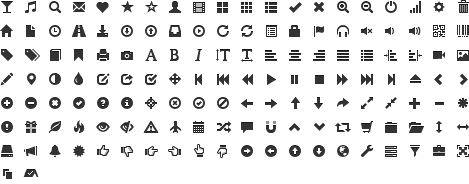
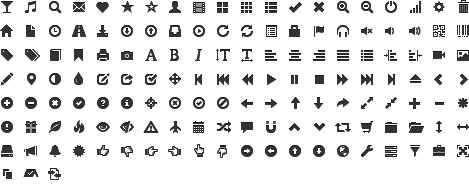
Bug 9757: Make staff client list contents view more like search results
This patch revises the staff client list contents view to better match
staff client search results, showing more information and offering more
ways to interact with the contents than before.

- List contents output has been modified so that the staff client can
  use XSLT-formatted data just as the OPAC can. As in the OPAC it
  depends on XSLTResultsDisplay being enabled.
- A "toolbar" has been added which is similar to that in search results,
  offering the option to add items to a Cart, add them to a different
  list, place multiple holds, remove items from the list, or merge
  records.
- This toolbar has been made to float on scroll like the one on the
  MARC edit page.
- Library and shelving location have been added to the display of call
  numbers. Call numbers are linked to a search as they are in search
  results.
- Edit links are included just as they are in search results.
- Automatic focus on the add by barcode form has been removed so that
  the page doesn't jump to the bottom unnecessarily.
- basket.js's "addMultiple" function has been modified so that it
  receives an array of checkboxes rather than looking for checkboxes in
  a specific form. This helps abstract its functionality for use on both
  search results and lists. results.tt is modified accordingly.
- The page layout has been widened to make room for the increased amount
  of information on the page.
- A new "merge" icon has been added to the default Bootstrap sprite.

To test:
[…]

diff --git a/koha-tmpl/intranet-tmpl/prog/en/js/basket.js b/koha-tmpl/intranet-tmpl/prog/en/js/basket.js
@@ -153,17 +153,17 @@ function SelectAll(){
     }
 }
 
-function addMultiple(){
+function addMultiple(biblist){
     var c_value = "";
-    if(document.bookbag_form.biblionumber.length > 0) {
-        for (var i=0; i < document.bookbag_form.biblionumber.length; i++) {
-            if (document.bookbag_form.biblionumber[i].checked) {
-                c_value = c_value + document.bookbag_form.biblionumber[i].value + "/";
+    if(biblist.length > 0) {
+        for (var i=0; i < biblist.length; i++) {
+            if (biblist[i].checked) {
+                c_value = c_value + biblist[i].value + "/";
             }
         }
         addSelRecords(c_value);
     } else {
-        c_value = c_value + document.bookbag_form.biblionumber.value + "/";
+        c_value = c_value + biblist.value + "/";
         addSelRecords(c_value);
     }
 }
@@ -403,19 +403,19 @@ function addSelToShelf() {
 
 ///  vShelfAdd()  builds url string for multiple-biblio adds.
 
-function vShelfAdd() {
-        bibs= new Array;
-        if(document.bookbag_form.biblionumber.length > 0) {
-                for (var i=0; i < document.bookbag_form.biblionumber.length; i++) {
-                        if (document.bookbag_form.biblionumber[i].checked) {
-                                bibs.push("biblionumber=" +  document.bookbag_form.biblionumber[i].value);
+function vShelfAdd(biblist) {
+        bibs = new Array();
+        if(biblist.length > 0) {
+                for (var i=0; i < biblist.length; i++) {
+                        if (biblist[i].checked) {
+                                bibs.push("biblionumber=" +  biblist[i].value);
                         }
                 }
-	    if (bibs.length == 0) { showListsUpdate(MSG_NO_RECORD_SELECTED); }
+        if (bibs.length == 0) { showListsUpdate(MSG_NO_RECORD_SELECTED); }
             return bibs.join("&");
         } else {
-            if (document.bookbag_form.biblionumber.checked) {
-                return "biblionumber=" + document.bookbag_form.biblionumber.value;
+            if (biblist.checked) {
+                return "biblionumber=" + biblist.value;
             }
         }
 }

diff --git a/koha-tmpl/intranet-tmpl/prog/en/css/staff-global.css b/koha-tmpl/intranet-tmpl/prog/en/css/staff-global.css
@@ -2411,6 +2411,10 @@ video {
     background-position:-3px -166px;
 }
 
+.icon-merge {
+    background-position:-48px -166px;
+}
+
 #toolbar .btn,
 #toolbar .dropdown-menu {
     font-size: 13px;
@@ -2545,6 +2549,7 @@ a.disabled {
 .modal-header .closebtn{margin-top:2px;}
 .closebtn{float:right;font-size:20px;font-weight:bold;line-height:20px;color:#000000;text-shadow:0 1px 0 #ffffff;opacity:0.2;filter:alpha(opacity=20);}.closebtn:hover{color:#000000;text-decoration:none;cursor:pointer;opacity:0.4;filter:alpha(opacity=40);}
 button.closebtn{padding:0;cursor:pointer;background:transparent;border:0;-webkit-appearance:none;}
+
 .btn-group label,
 .btn-group select {
     font-size: 13px;
@@ -2570,4 +2575,10 @@ fieldset.rows table.mceListBox {
     font-size: 140%;
     font-family : monospace;
     padding : .3em;
+}
+
+/* Class to be added to toolbar when it starts being fixed at the top of the screen*/
+.floating {
+    -webkit-box-shadow: 0px 3px 2px 0px rgba(0, 0, 0, .5);
+    box-shadow: 0px 3px 2px 0px rgba(0, 0, 0, .5);
 }

diff --git a/koha-tmpl/intranet-tmpl/prog/en/css/addbiblio.css b/koha-tmpl/intranet-tmpl/prog/en/css/addbiblio.css
@@ -139,12 +139,6 @@ a.tagnum {
 .yui-gf .yui-u {
 	width: 79.2%;
 }
-/* Class to be added to toolbar when it starts being fixed at the top of the screen*/
-.floating {
-	-webkit-box-shadow: 0px 3px 2px 0px rgba(0, 0, 0, .5);
-	box-shadow: 0px 3px 2px 0px rgba(0, 0, 0, .5);
-    margin-top: 0;
-}
 
 tr.active td {
     background-color: #FFFFCC;
